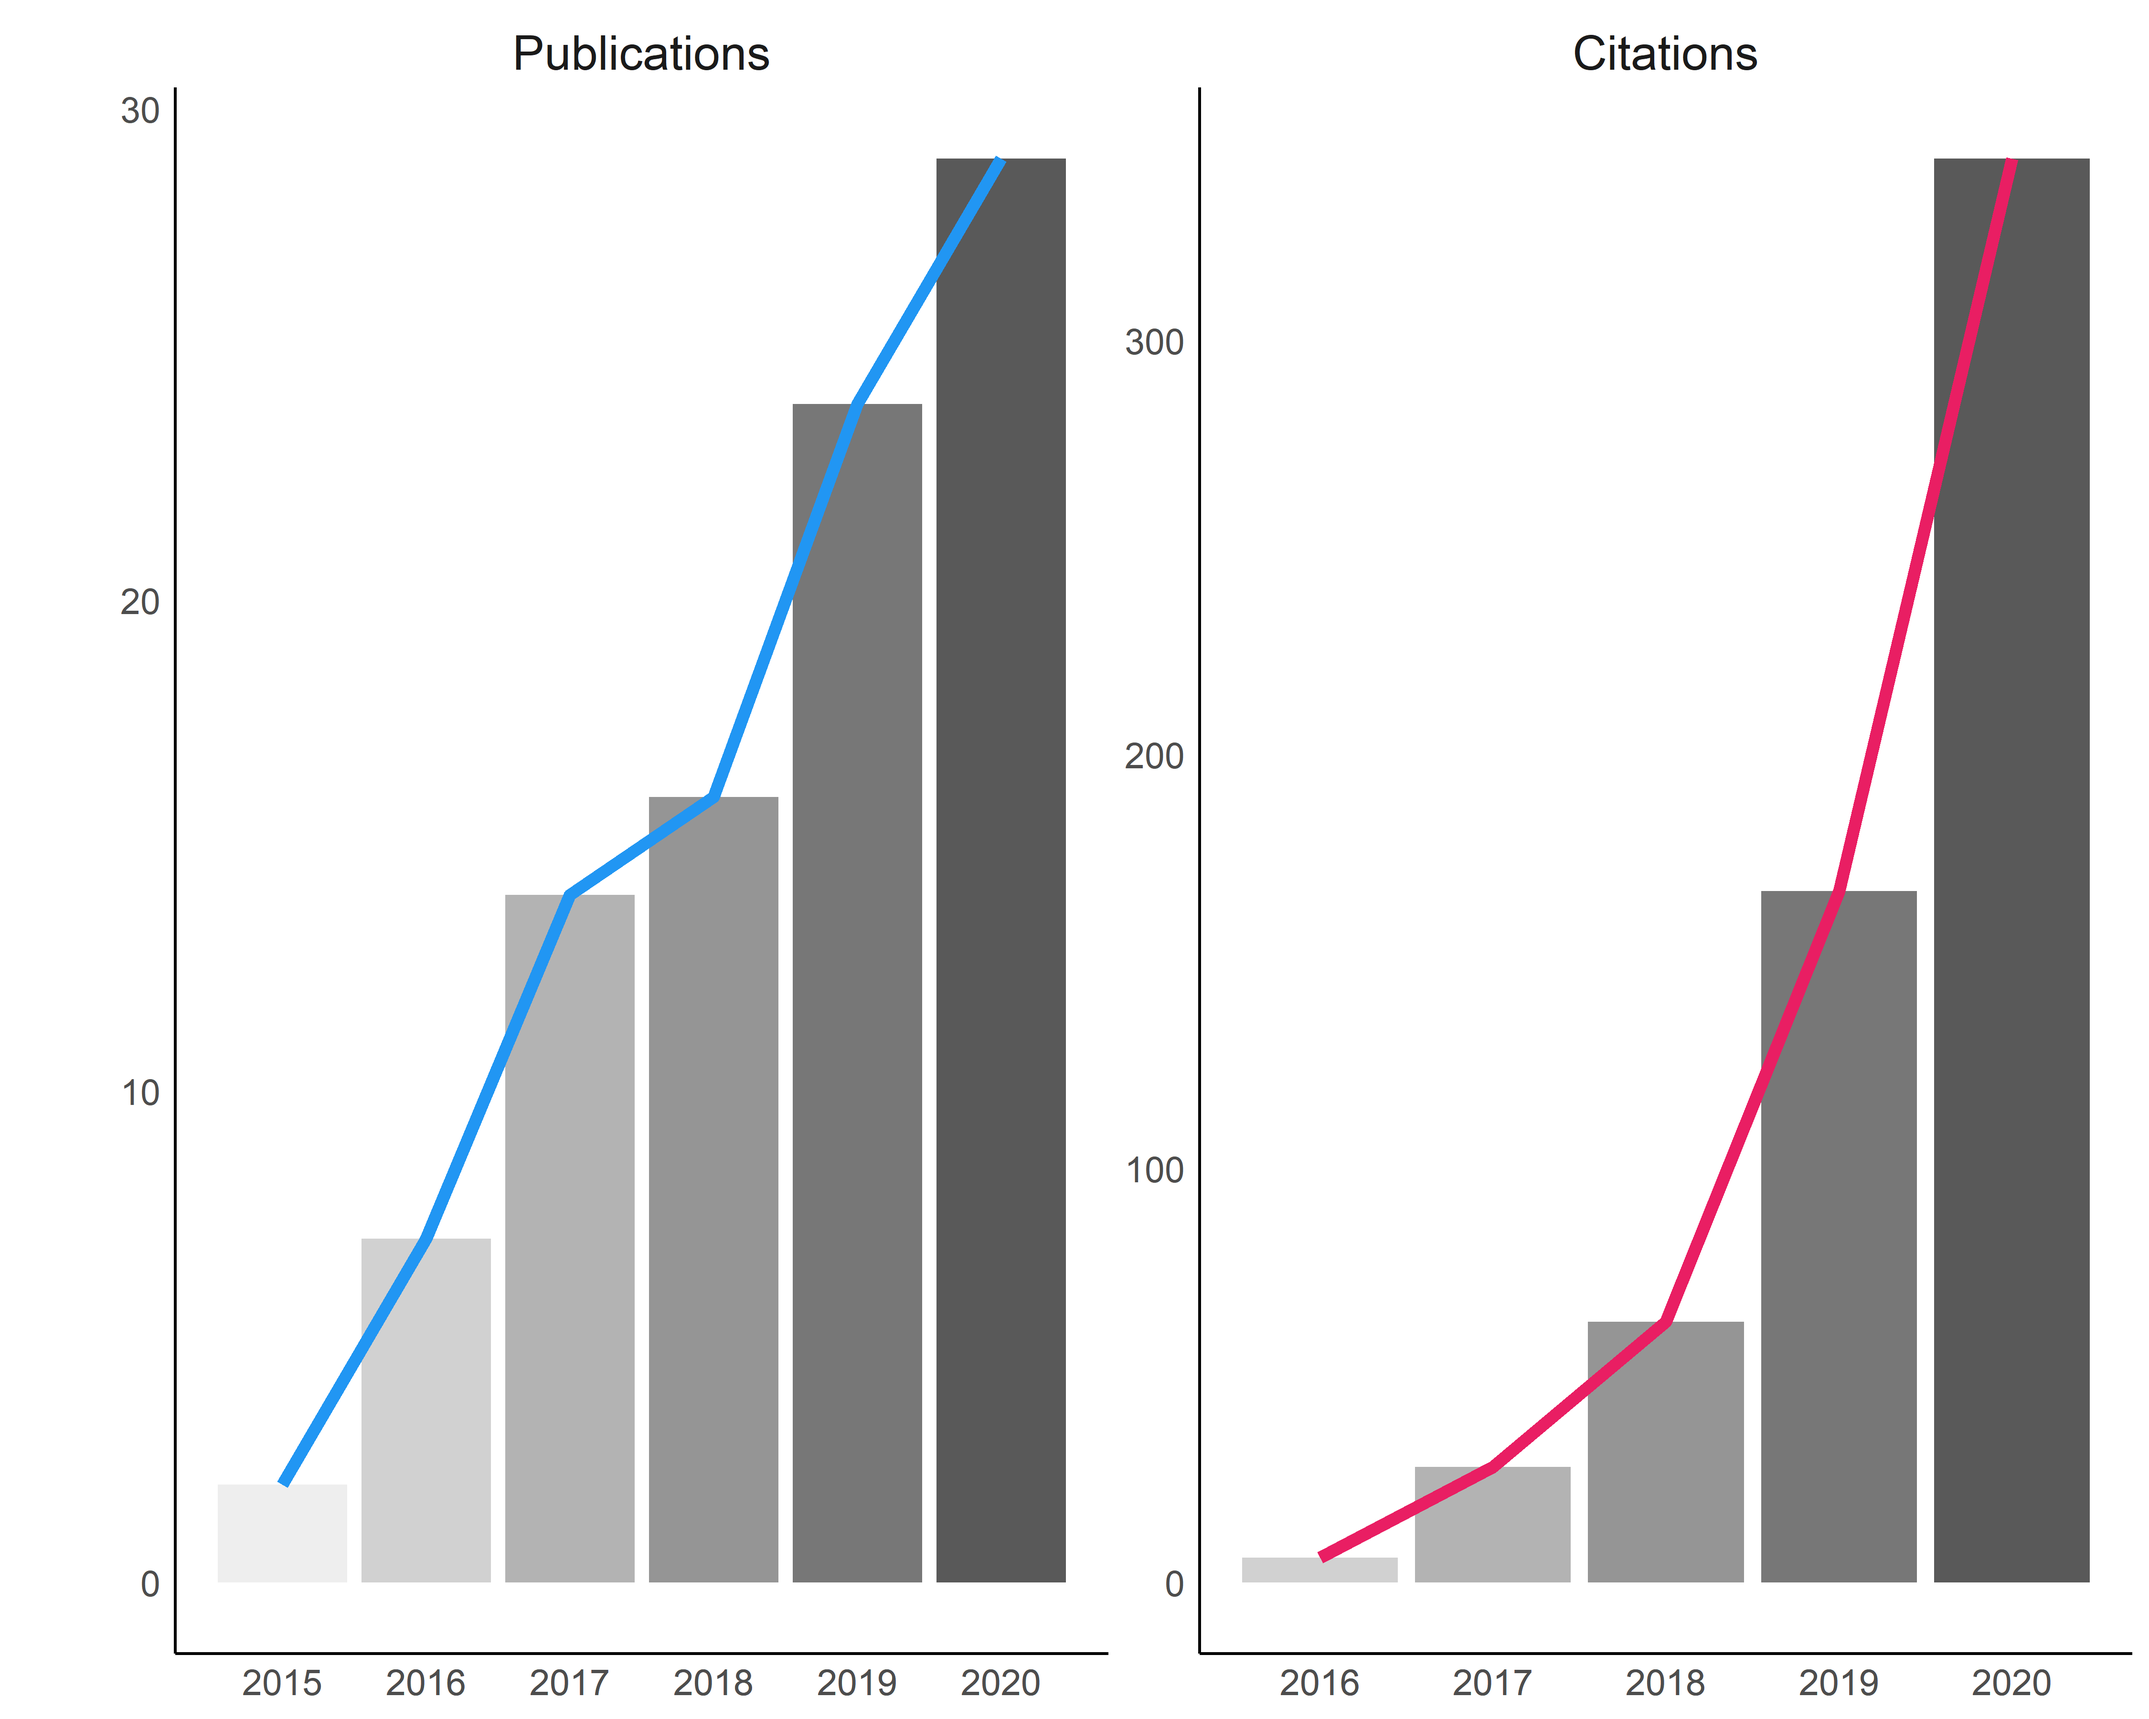
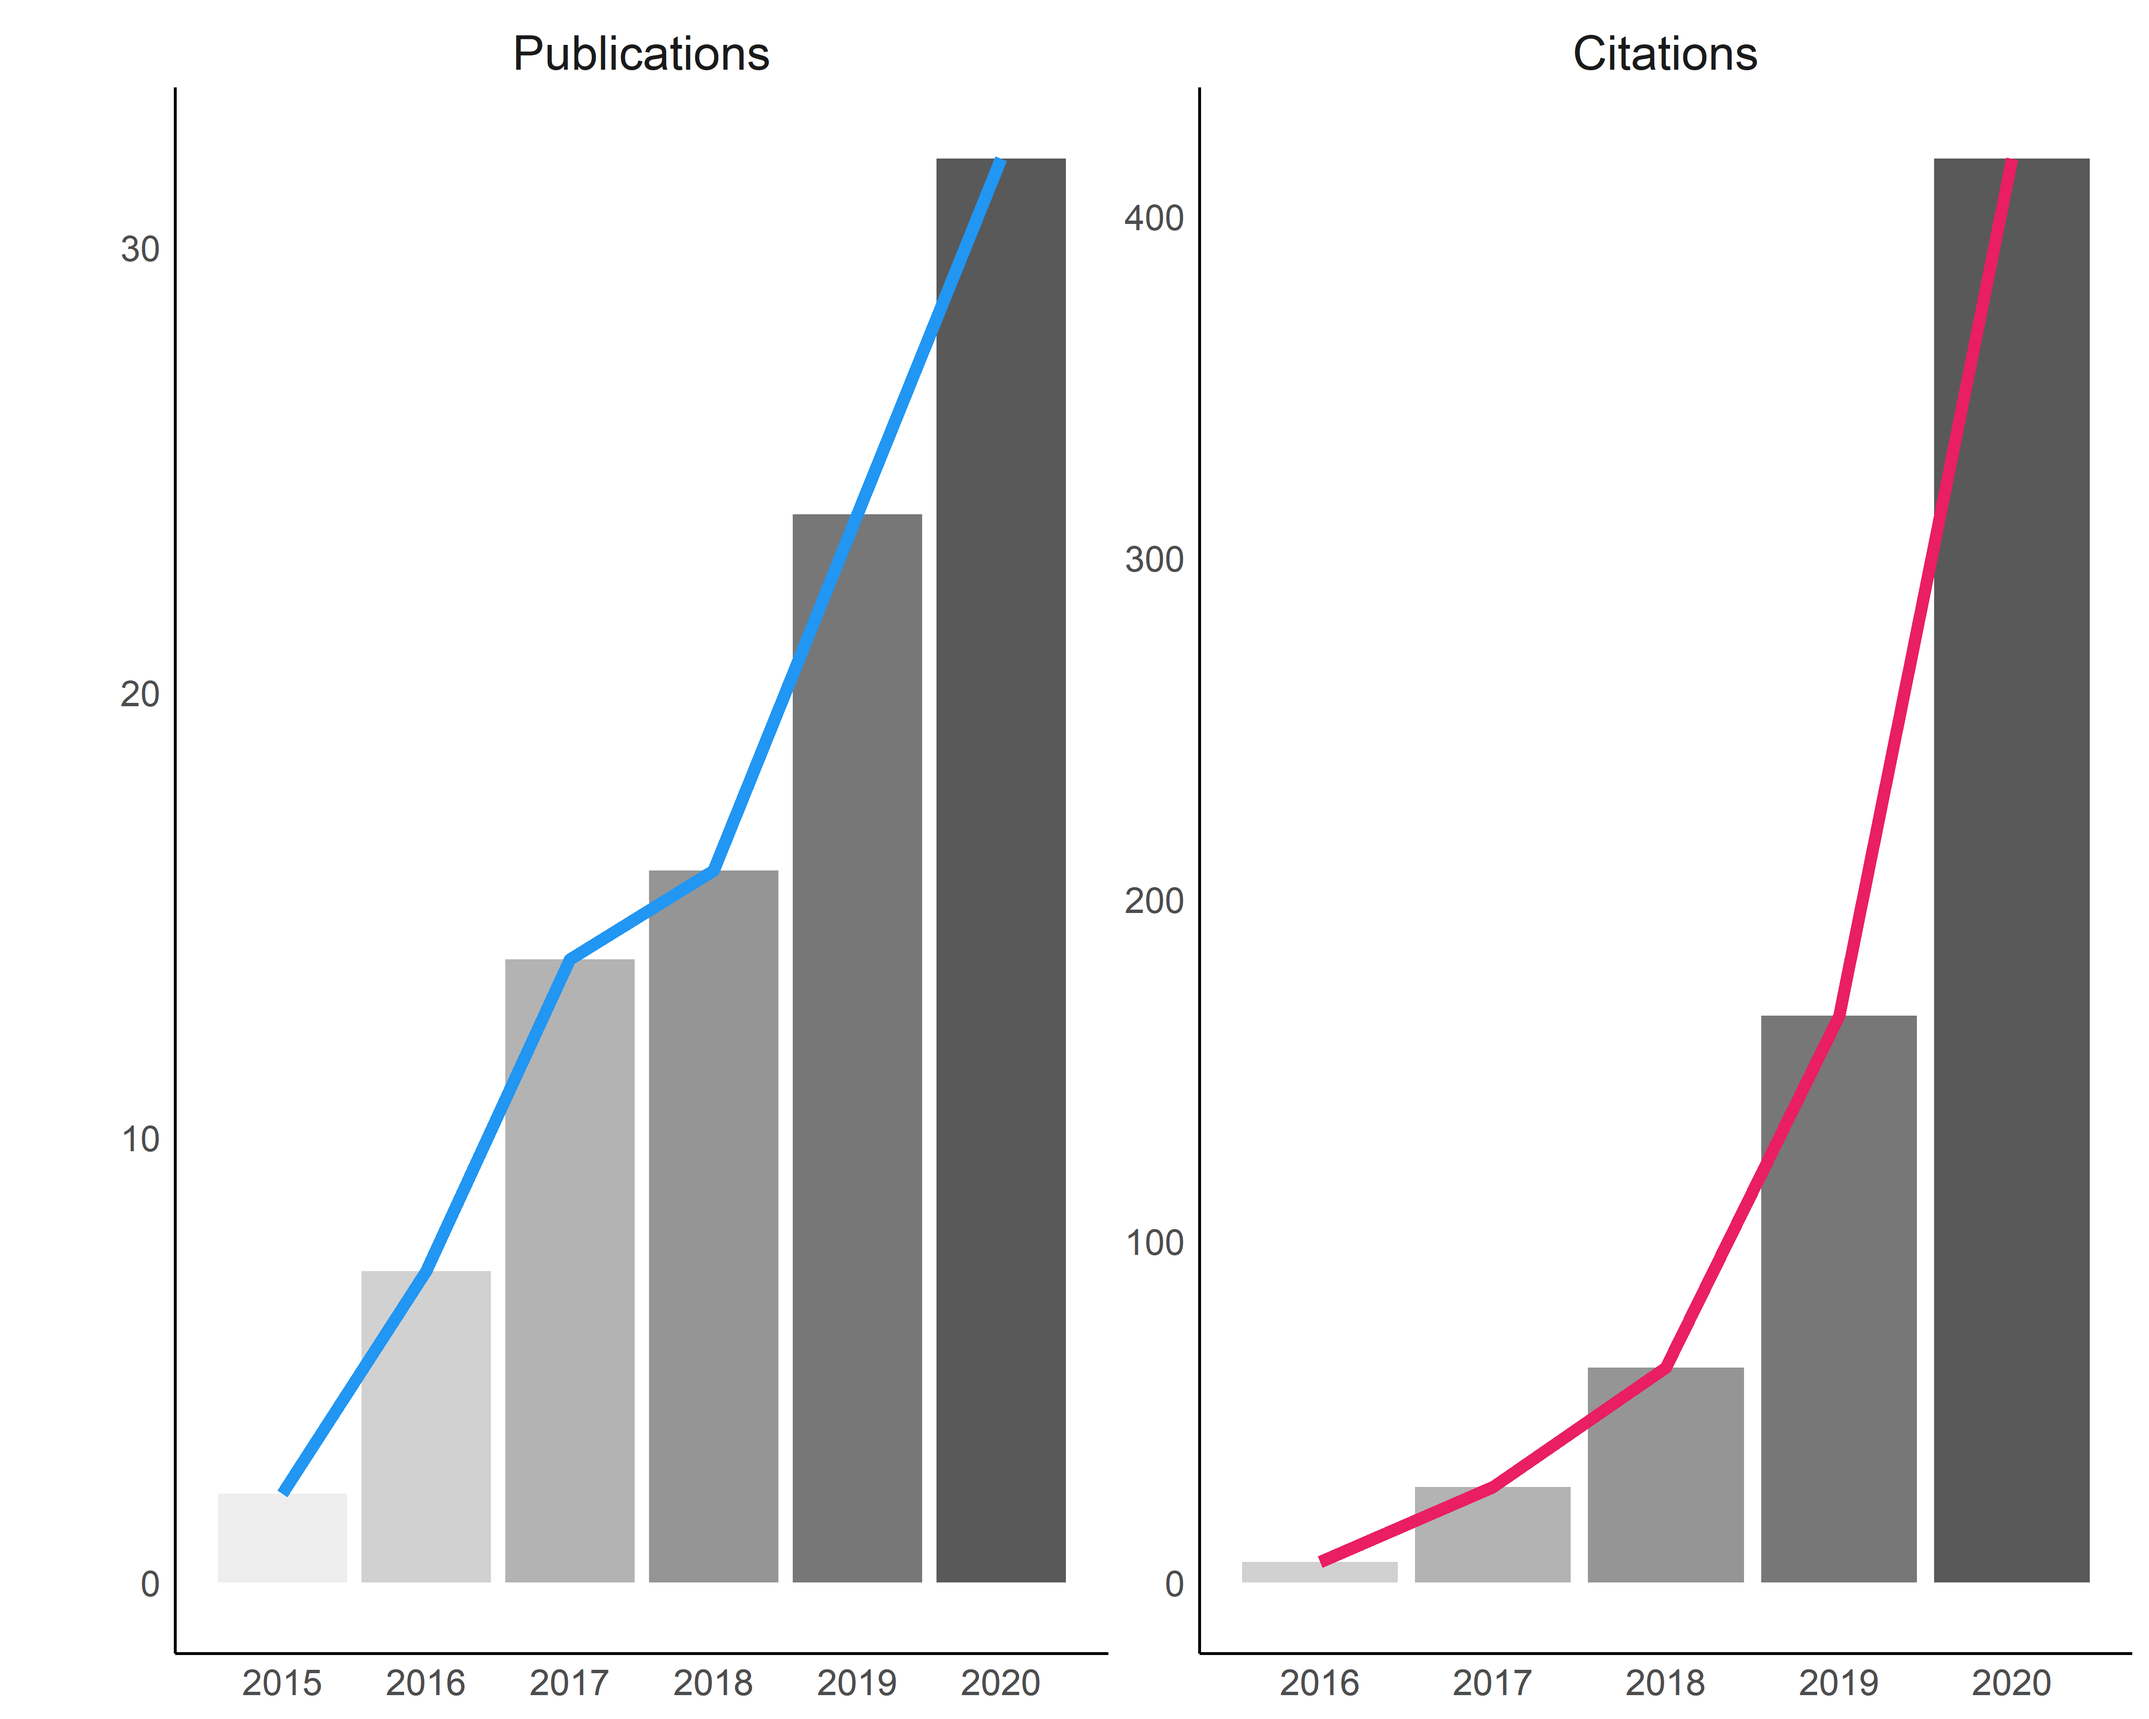
update data

diff --git a/cv/index.html b/cv/index.html
@@ -746,7 +746,7 @@
 </div>
 <div id="scientific-impact" class="section level3">
 <h3><strong>Scientific Impact</strong></h3>
-<p>The data was automatically retrieved from Google Scholar on the 07 September 2020.</p>
+<p>The data was automatically retrieved from Google Scholar on the 25 October 2020.</p>
 <img src="img/plot_impact.png" width="100%" />
 <center>
 <sup><em>Cumulative citations and publication number, automatically scrapped from Google Scholar.</em></sup>
@@ -766,23 +766,23 @@
 <tbody>
 <tr class="odd">
 <td align="left">Total number of publications</td>
-<td align="right">29</td>
+<td align="right">32</td>
 </tr>
 <tr class="even">
 <td align="left">Total number of citations</td>
-<td align="right">348</td>
+<td align="right">424</td>
 </tr>
 <tr class="odd">
 <td align="left">Average number of publications / Year</td>
-<td align="right">4</td>
+<td align="right">5</td>
 </tr>
 <tr class="even">
 <td align="left">Average number of citations / Year</td>
-<td align="right">50</td>
+<td align="right">61</td>
 </tr>
 <tr class="odd">
 <td align="left">h-index</td>
-<td align="right">9</td>
+<td align="right">10</td>
 </tr>
 </tbody>
 </table>
